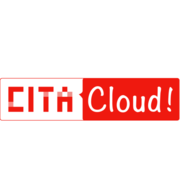
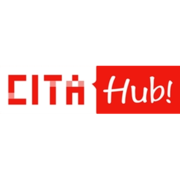
change to citahub; add CNAME

Changed region(s): [[0.0, 0.3611, 1.0, 0.6944]]

diff --git a/source/about/index.md b/source/about/index.md
@@ -3,6 +3,10 @@ layout: page
 title: 团队介绍
 ---
 
+`CITAHub` 是由溪塔科技发起，100余家企业共建的国内最早的区块链开源社区之一。
+
+`CITAHub` 开源社区共同孵化了高性能区块链内核 `CITA`、云原生区块链开发框架 `CITA-Cloud` 等开源项目。
+
 `CITA-Cloud` 是一款开源的区块链开发框架，由溪塔科技发起，区块链知名机构及资深人士共创，致力于克服区块链技术在底层能力上的可扩展性与可编程性。基于云原生能力，可完成区块链组件的灵活替换，科研机构可方便的将研究成果进行集成转化，最终达到基于不同场景， 实现灵活，开放，可互操区块链底层的目标。
 
 更详细的描述参见：
